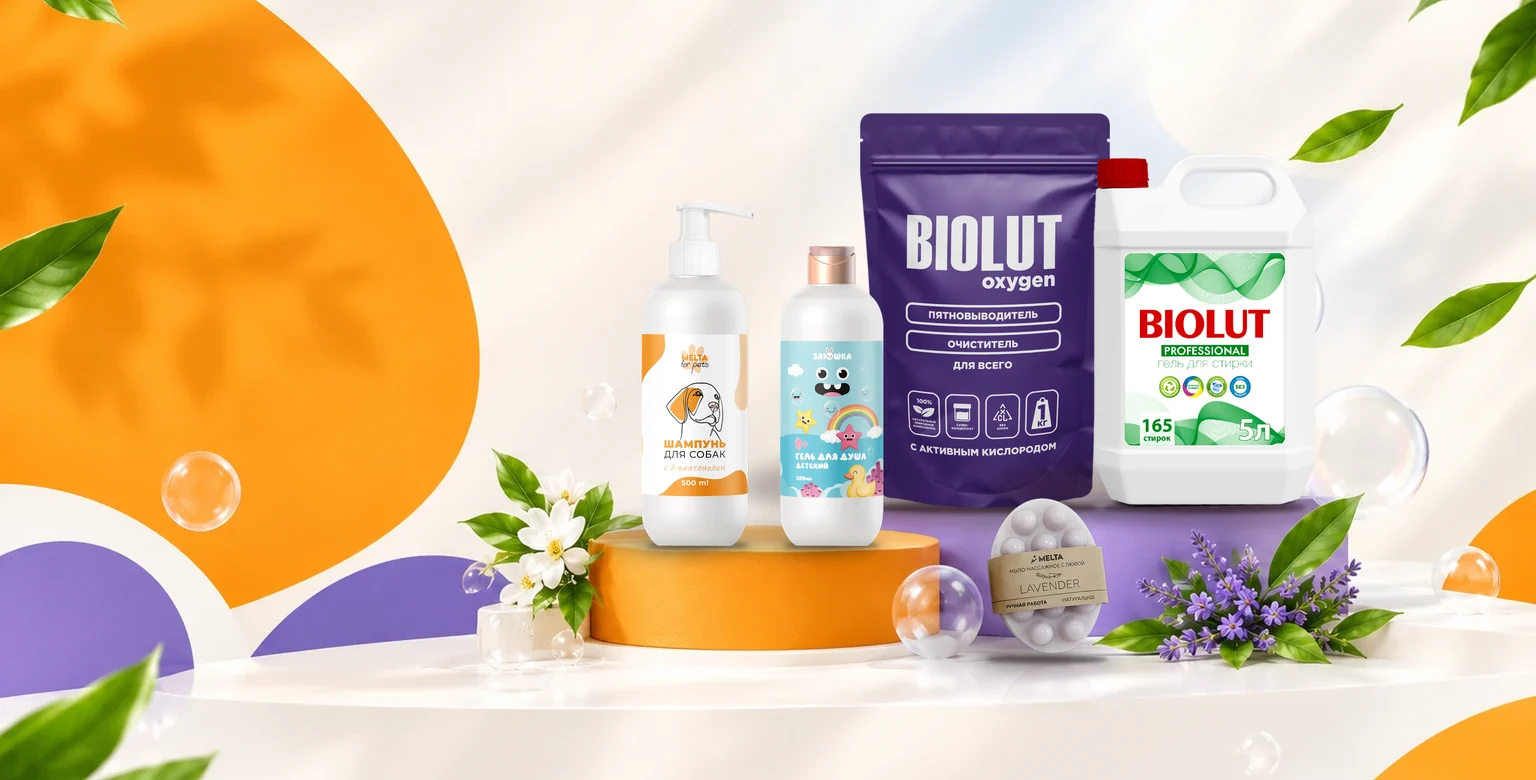
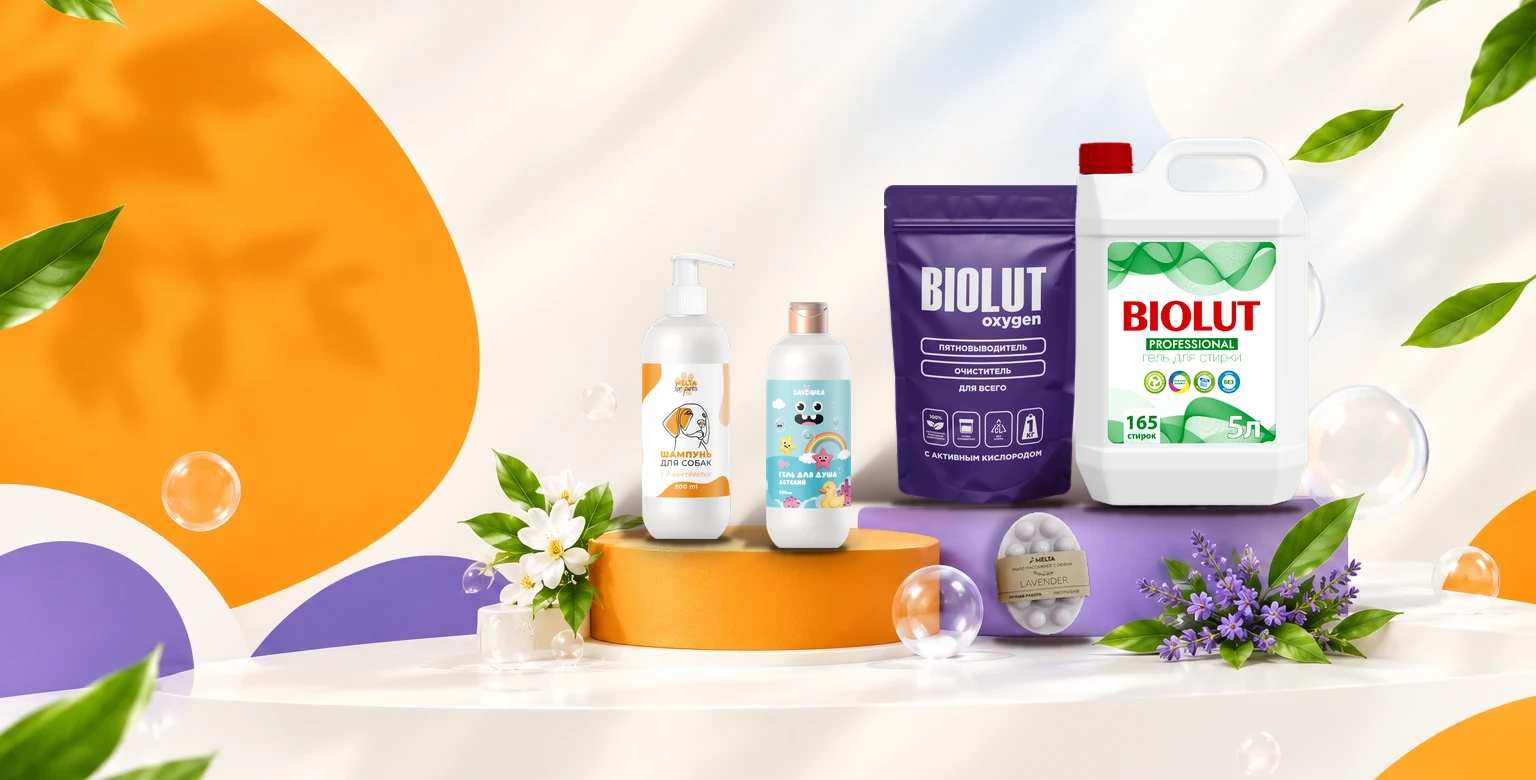
Вариант 7: реалистичный первый слайд — масштаб товаров, тени по силуэту, родное разрешение фона
Claude-Session: https://claude.ai/code/session_01NrjMZLUvLXUEoWuvL9qRjd

diff --git a/v7/index.html b/v7/index.html
@@ -48,7 +48,7 @@
 <main id="main">
 
   <section class="hero hero--slide">
-    <img class="hero__bg" src="../assets/products/hero-slide-1x.webp?v=3" srcset="../assets/products/hero-slide-1x.webp?v=3 1536w, ../assets/products/hero-slide.webp?v=3 3072w" sizes="100vw" alt="Продукция Melta на подиумах: шампунь для собак, детский гель «Заюшка», Biolut Oxygen, гель для стирки Biolut 5 л и мыло Lavender" width="1536" height="780">
+    <img class="hero__bg" src="../assets/products/hero-slide-1x.webp?v=4" alt="Продукция Melta на подиумах: шампунь для собак, детский гель «Заюшка», Biolut Oxygen, гель для стирки Biolut 5 л и мыло Lavender" width="1536" height="780">
     <div class="hero__content">
       <div class="container">
         <div class="hero__text">
